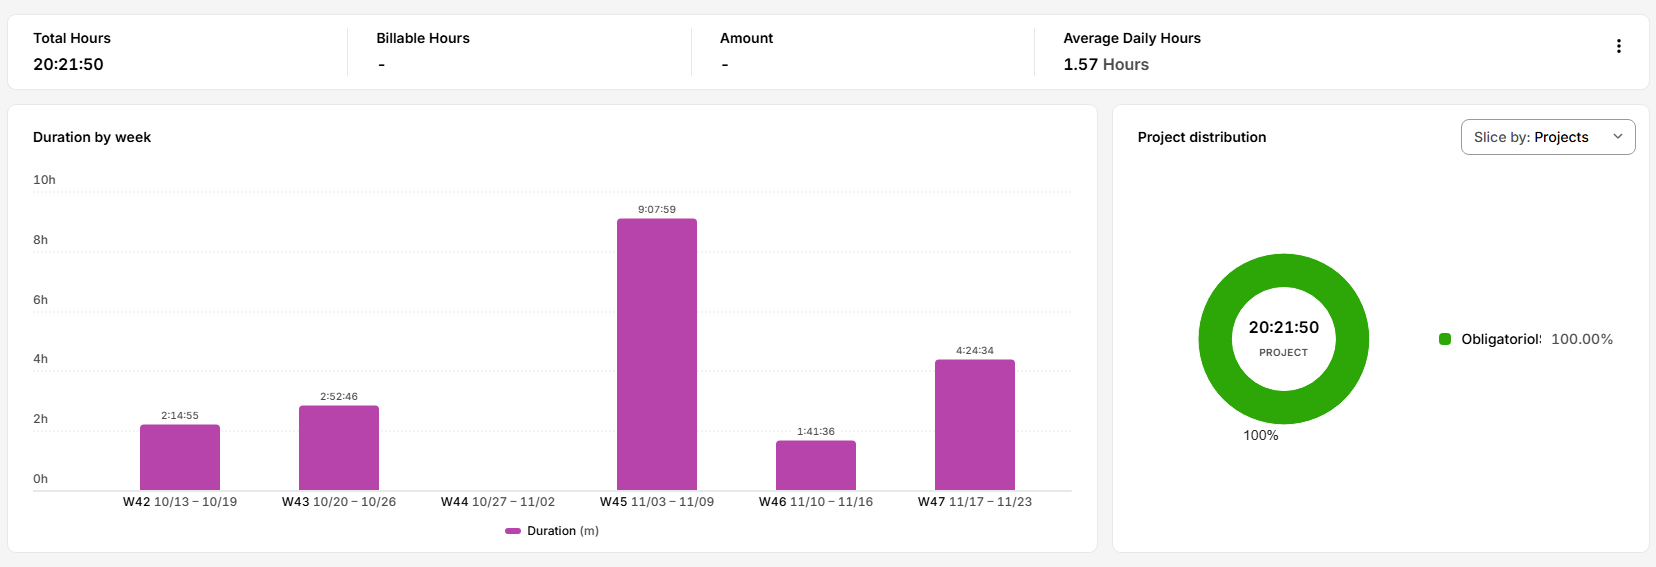
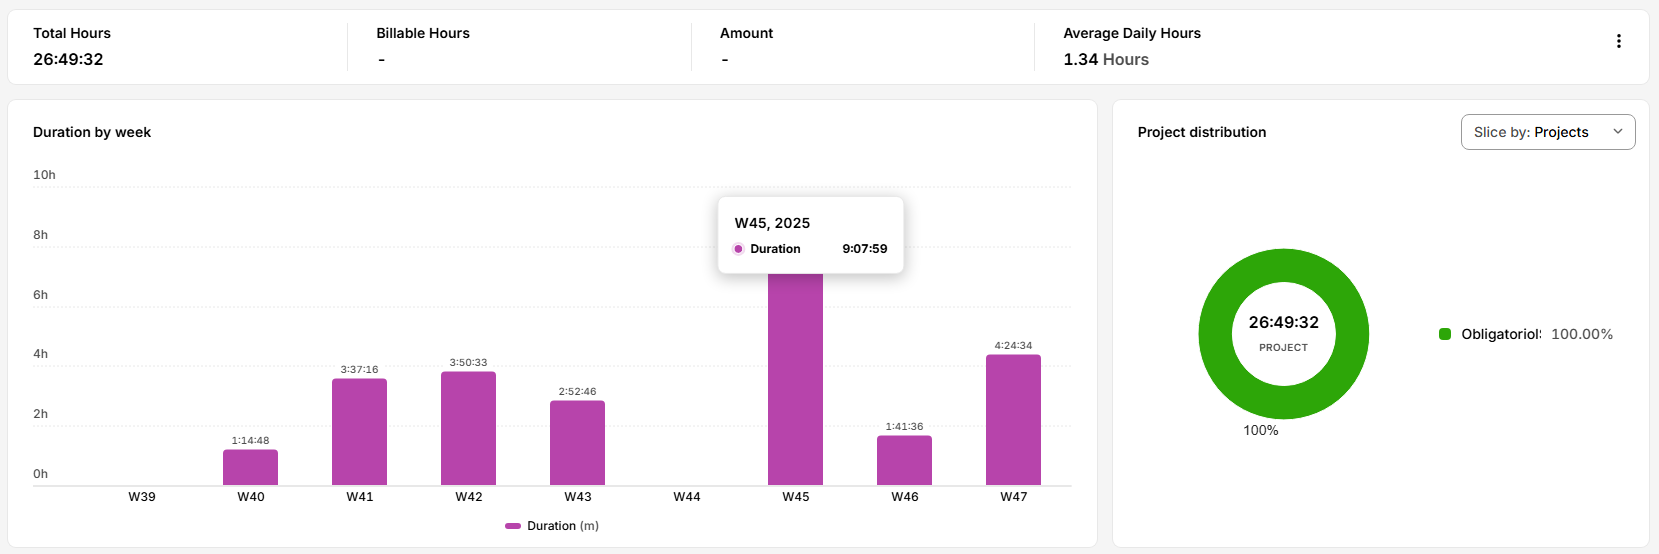
imagenes Toggl

diff --git a/README.md b/README.md
@@ -179,12 +179,14 @@ En la última iteración, como finalizamos el MVP del sistema de carpooling univ
 
 Para saber cuanto tiempo le dedicamos a cada parte del proyecto utilizamos **Toggl Track**. Es una herramienta muy fácil de usar que nos permitió registrar las horas invertidas en cada tarea, hacer un buen seguimiento del trabajo y finalmente visualizar gráficos con nuestros resultados.
 
-**Total de horas trabajadas:** 73.5 horas
+**Total de horas trabajadas:** 73.2 horas
+
+![Horas totales](imagenes/toggle/toggleTotal.png)
 
 **Distribución por persona:**
 - Agustín: 33.5 horas
-- Santiago: 19.8 horas
-- Franco: 20.2 horas
+- Santiago: 13.2 horas
+- Franco: 26.5 horas
 
 **Imágenes de toggl finales**
 - [Agustín](imagenes/toggle/toggleAgustin.png)
